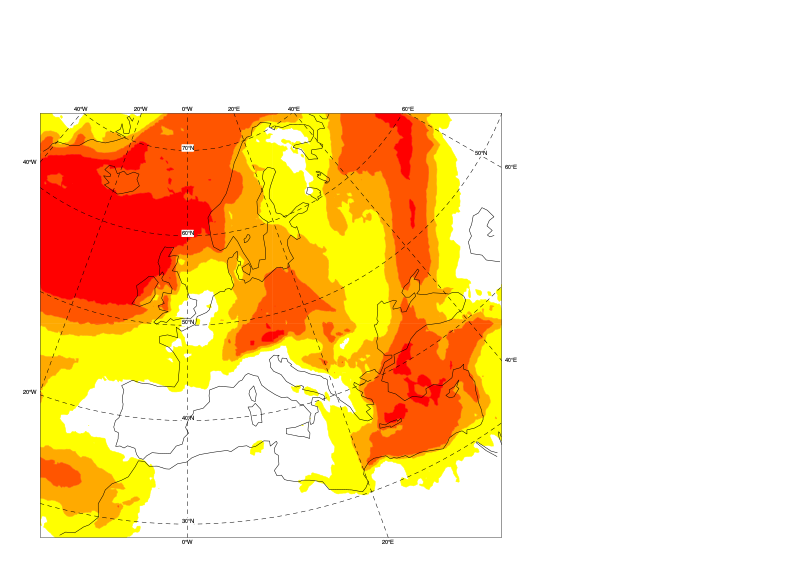
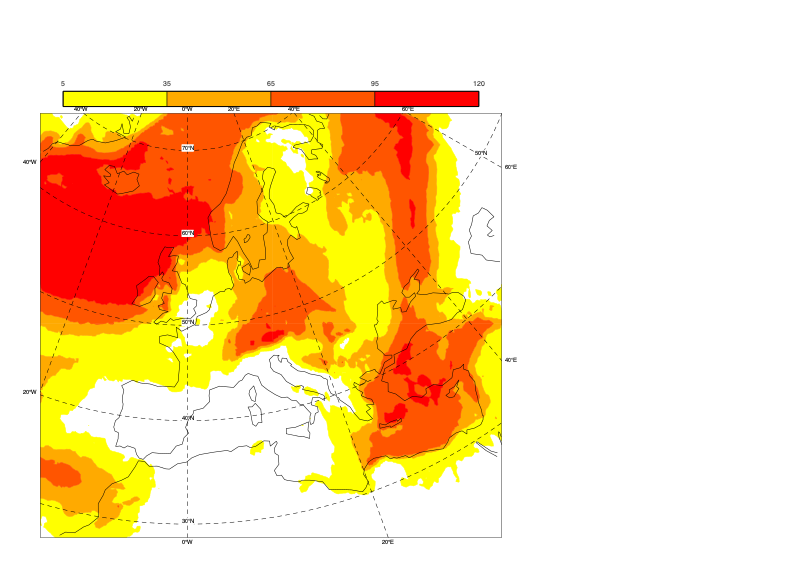
Adding legend to styles

Changed region(s): [[0.0625, 0.1502, 0.625, 0.2102]]

diff --git a/docs/generate-gallery-styles.py b/docs/generate-gallery-styles.py
@@ -45,6 +45,7 @@ map = GeoMap(area_name="europe")
 map.{method}("{data}", style="{style}")
 map.gridlines(line_style="dash")
 map.coastlines()
+map.legend()
 map.save("{style}.png")
 
 # sphinx_gallery_thumbnail_path = '_static/styles/{style}.png'
@@ -67,6 +68,7 @@ def contour_shaded(data, style):
     map.contour_shaded(data, style = style)
     map.gridlines(line_style="dash")
     map.coastlines()
+    map.legend()
     map.save("_static/styles/{}.png".format(style))
     gallery("contour_shaded", data, style, background="")
 
@@ -76,6 +78,7 @@ def contour_lines(data, style):
     map.contour_lines(data, style = style)
     map.gridlines(line_style="dash")
     map.coastlines()
+    map.legend()
     map.save("_static/styles/{}.png".format(style))
     gallery("contour_lines", data, style, background="map.coastlines(land_colour='grey')")
 

diff --git a/docs/gallery/styles/temperature_spread_magenta.py b/docs/gallery/styles/temperature_spread_magenta.py
@@ -24,6 +24,7 @@ map = GeoMap(area_name="europe")
 map.contour_shaded("2t_spread.grib", style="temperature_spread_magenta")
 map.gridlines(line_style="dash")
 map.coastlines()
+map.legend()
 map.save("temperature_spread_magenta.png")
 
 # sphinx_gallery_thumbnail_path = '_static/styles/temperature_spread_magenta.png'

diff --git a/docs/gallery/styles/precipitation_rate_rainbow.py b/docs/gallery/styles/precipitation_rate_rainbow.py
@@ -24,6 +24,7 @@ map = GeoMap(area_name="europe")
 map.contour_shaded("tprate.grib", style="precipitation_rate_rainbow")
 map.gridlines(line_style="dash")
 map.coastlines()
+map.legend()
 map.save("precipitation_rate_rainbow.png")
 
 # sphinx_gallery_thumbnail_path = '_static/styles/precipitation_rate_rainbow.png'

diff --git a/docs/gallery/styles/specific_humidity_rainbow_1.py b/docs/gallery/styles/specific_humidity_rainbow_1.py
@@ -24,6 +24,7 @@ map = GeoMap(area_name="europe")
 map.contour_shaded("q.grib", style="specific_humidity_rainbow_1")
 map.gridlines(line_style="dash")
 map.coastlines()
+map.legend()
 map.save("specific_humidity_rainbow_1.png")
 
 # sphinx_gallery_thumbnail_path = '_static/styles/specific_humidity_rainbow_1.png'

diff --git a/docs/gallery/styles/precipitation_blue_red_250.py b/docs/gallery/styles/precipitation_blue_red_250.py
@@ -24,6 +24,7 @@ map = GeoMap(area_name="europe")
 map.contour_shaded("tp.grib", style="precipitation_blue_red_250")
 map.gridlines(line_style="dash")
 map.coastlines()
+map.legend()
 map.save("precipitation_blue_red_250.png")
 
 # sphinx_gallery_thumbnail_path = '_static/styles/precipitation_blue_red_250.png'

diff --git a/docs/gallery/styles/speed_spread_magenta.py b/docs/gallery/styles/speed_spread_magenta.py
@@ -24,6 +24,7 @@ map = GeoMap(area_name="europe")
 map.contour_shaded("10si_spread.grib", style="speed_spread_magenta")
 map.gridlines(line_style="dash")
 map.coastlines()
+map.legend()
 map.save("speed_spread_magenta.png")
 
 # sphinx_gallery_thumbnail_path = '_static/styles/speed_spread_magenta.png'

diff --git a/docs/gallery/styles/temperature_rainbow_3.py b/docs/gallery/styles/temperature_rainbow_3.py
@@ -24,6 +24,7 @@ map = GeoMap(area_name="europe")
 map.contour_shaded("2t.grib", style="temperature_rainbow_3")
 map.gridlines(line_style="dash")
 map.coastlines()
+map.legend()
 map.save("temperature_rainbow_3.png")
 
 # sphinx_gallery_thumbnail_path = '_static/styles/temperature_rainbow_3.png'

diff --git a/docs/gallery/styles/accumulated_tp_1000.py b/docs/gallery/styles/accumulated_tp_1000.py
@@ -24,6 +24,7 @@ map = GeoMap(area_name="europe")
 map.contour_shaded("tp_acc.grib", style="accumulated_tp_1000")
 map.gridlines(line_style="dash")
 map.coastlines()
+map.legend()
 map.save("accumulated_tp_1000.png")
 
 # sphinx_gallery_thumbnail_path = '_static/styles/accumulated_tp_1000.png'

diff --git a/docs/gallery/styles/msl_spread_magenta.py b/docs/gallery/styles/msl_spread_magenta.py
@@ -24,6 +24,7 @@ map = GeoMap(area_name="europe")
 map.contour_shaded("msl_es.grib", style="msl_spread_magenta")
 map.gridlines(line_style="dash")
 map.coastlines()
+map.legend()
 map.save("msl_spread_magenta.png")
 
 # sphinx_gallery_thumbnail_path = '_static/styles/msl_spread_magenta.png'

diff --git a/docs/gallery/styles/visibility_rainbow1.py b/docs/gallery/styles/visibility_rainbow1.py
@@ -24,6 +24,7 @@ map = GeoMap(area_name="europe")
 map.contour_shaded("vis.grib", style="visibility_rainbow1")
 map.gridlines(line_style="dash")
 map.coastlines()
+map.legend()
 map.save("visibility_rainbow1.png")
 
 # sphinx_gallery_thumbnail_path = '_static/styles/visibility_rainbow1.png'

diff --git a/docs/gallery/styles/probability_green.py b/docs/gallery/styles/probability_green.py
@@ -24,6 +24,7 @@ map = GeoMap(area_name="europe")
 map.contour_shaded("tpg1.grib", style="probability_green")
 map.gridlines(line_style="dash")
 map.coastlines()
+map.legend()
 map.save("probability_green.png")
 
 # sphinx_gallery_thumbnail_path = '_static/styles/probability_green.png'

diff --git a/docs/gallery/styles/probability_blue.py b/docs/gallery/styles/probability_blue.py
@@ -24,6 +24,7 @@ map = GeoMap(area_name="europe")
 map.contour_shaded("tpg1.grib", style="probability_blue")
 map.gridlines(line_style="dash")
 map.coastlines()
+map.legend()
 map.save("probability_blue.png")
 
 # sphinx_gallery_thumbnail_path = '_static/styles/probability_blue.png'
